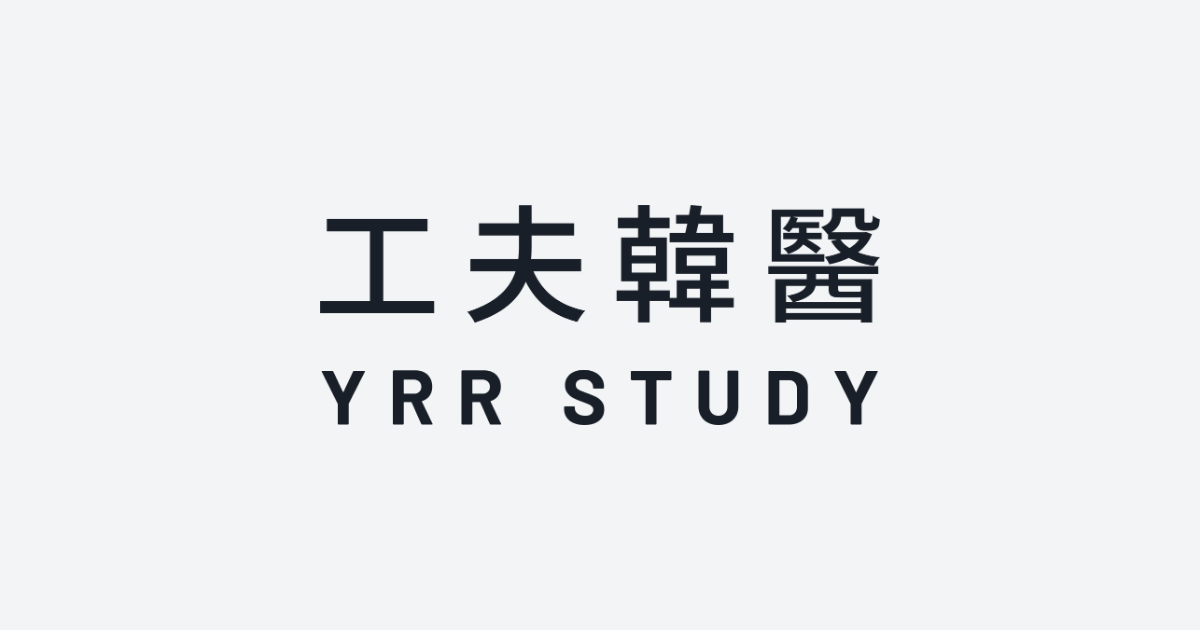
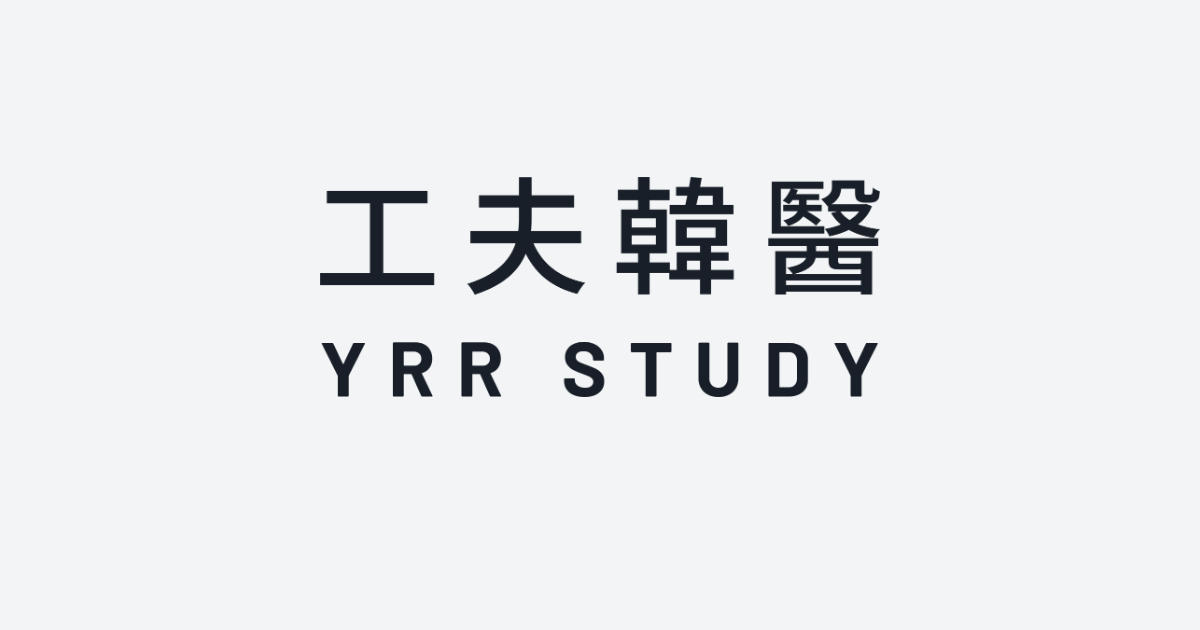
링크 미리보기 썸네일 : 카톡이 아래를 잘라 보여줘서 로고를 살짝 위로
Claude-Session: https://claude.ai/code/session_015uaKLahaYjwSoCrRpGm8MR

Changed region(s): [[0.2467, 0.2714, 0.74, 0.5127], [0.4625, 0.5429, 0.74, 0.6937], [0.2467, 0.5429, 0.4317, 0.6937]]

diff --git a/index.html b/index.html
@@ -10,7 +10,7 @@
 <meta property="og:title" content="공부하니 By. KIKY">
 <meta property="og:description" content="원광한의대 학습 자료 아카이브">
 <meta property="og:url" content="https://kiky-wku.github.io/KMED-Archive/">
-<meta property="og:image" content="https://kiky-wku.github.io/KMED-Archive/icons/og.png">
+<meta property="og:image" content="https://kiky-wku.github.io/KMED-Archive/icons/og.png?v=2">
 <meta property="og:image:width" content="1200">
 <meta property="og:image:height" content="630">
 <meta name="twitter:card" content="summary_large_image">
